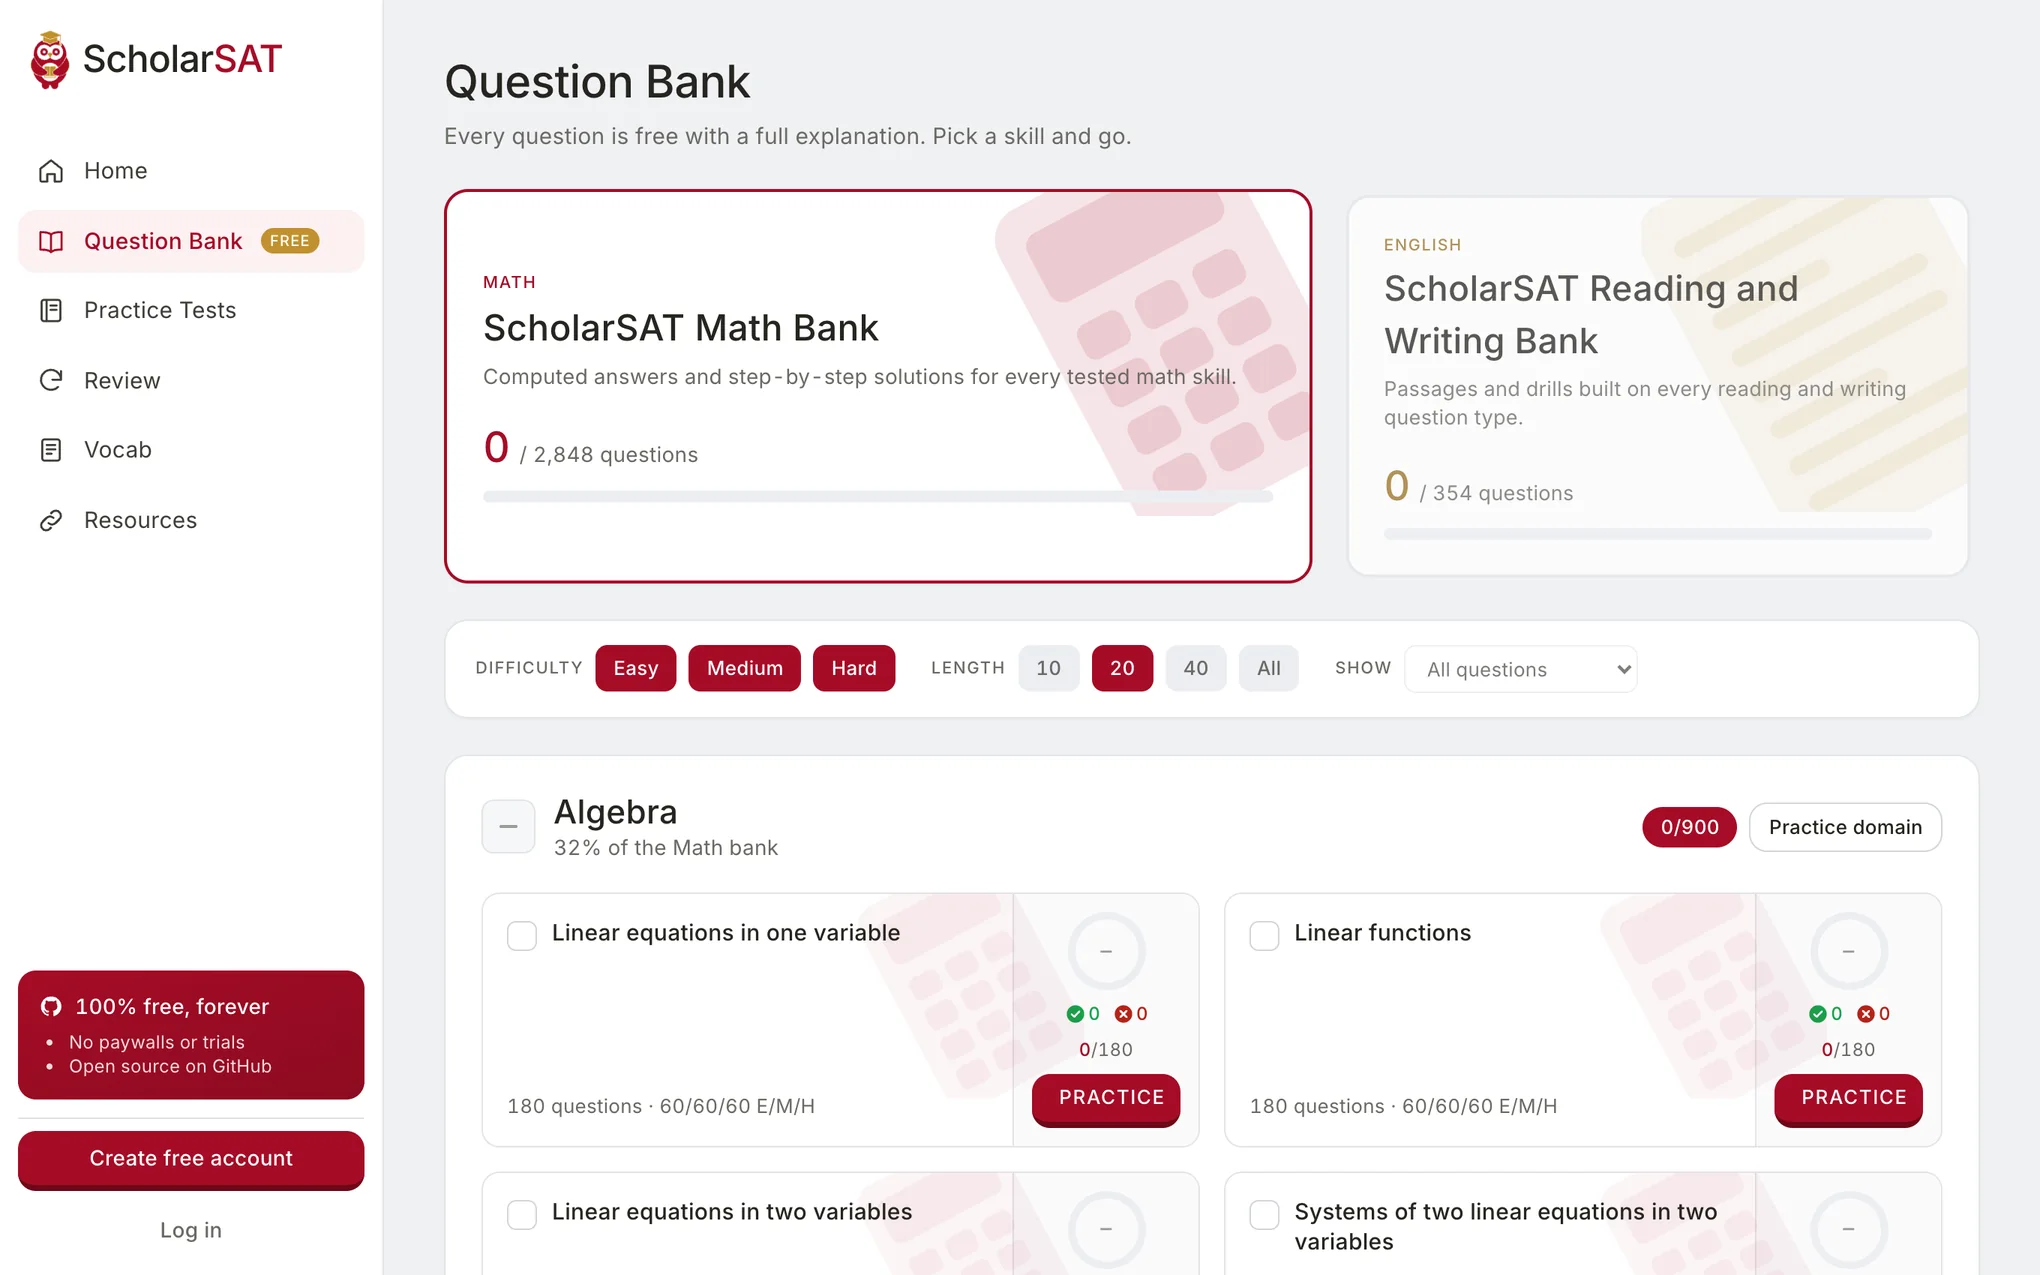
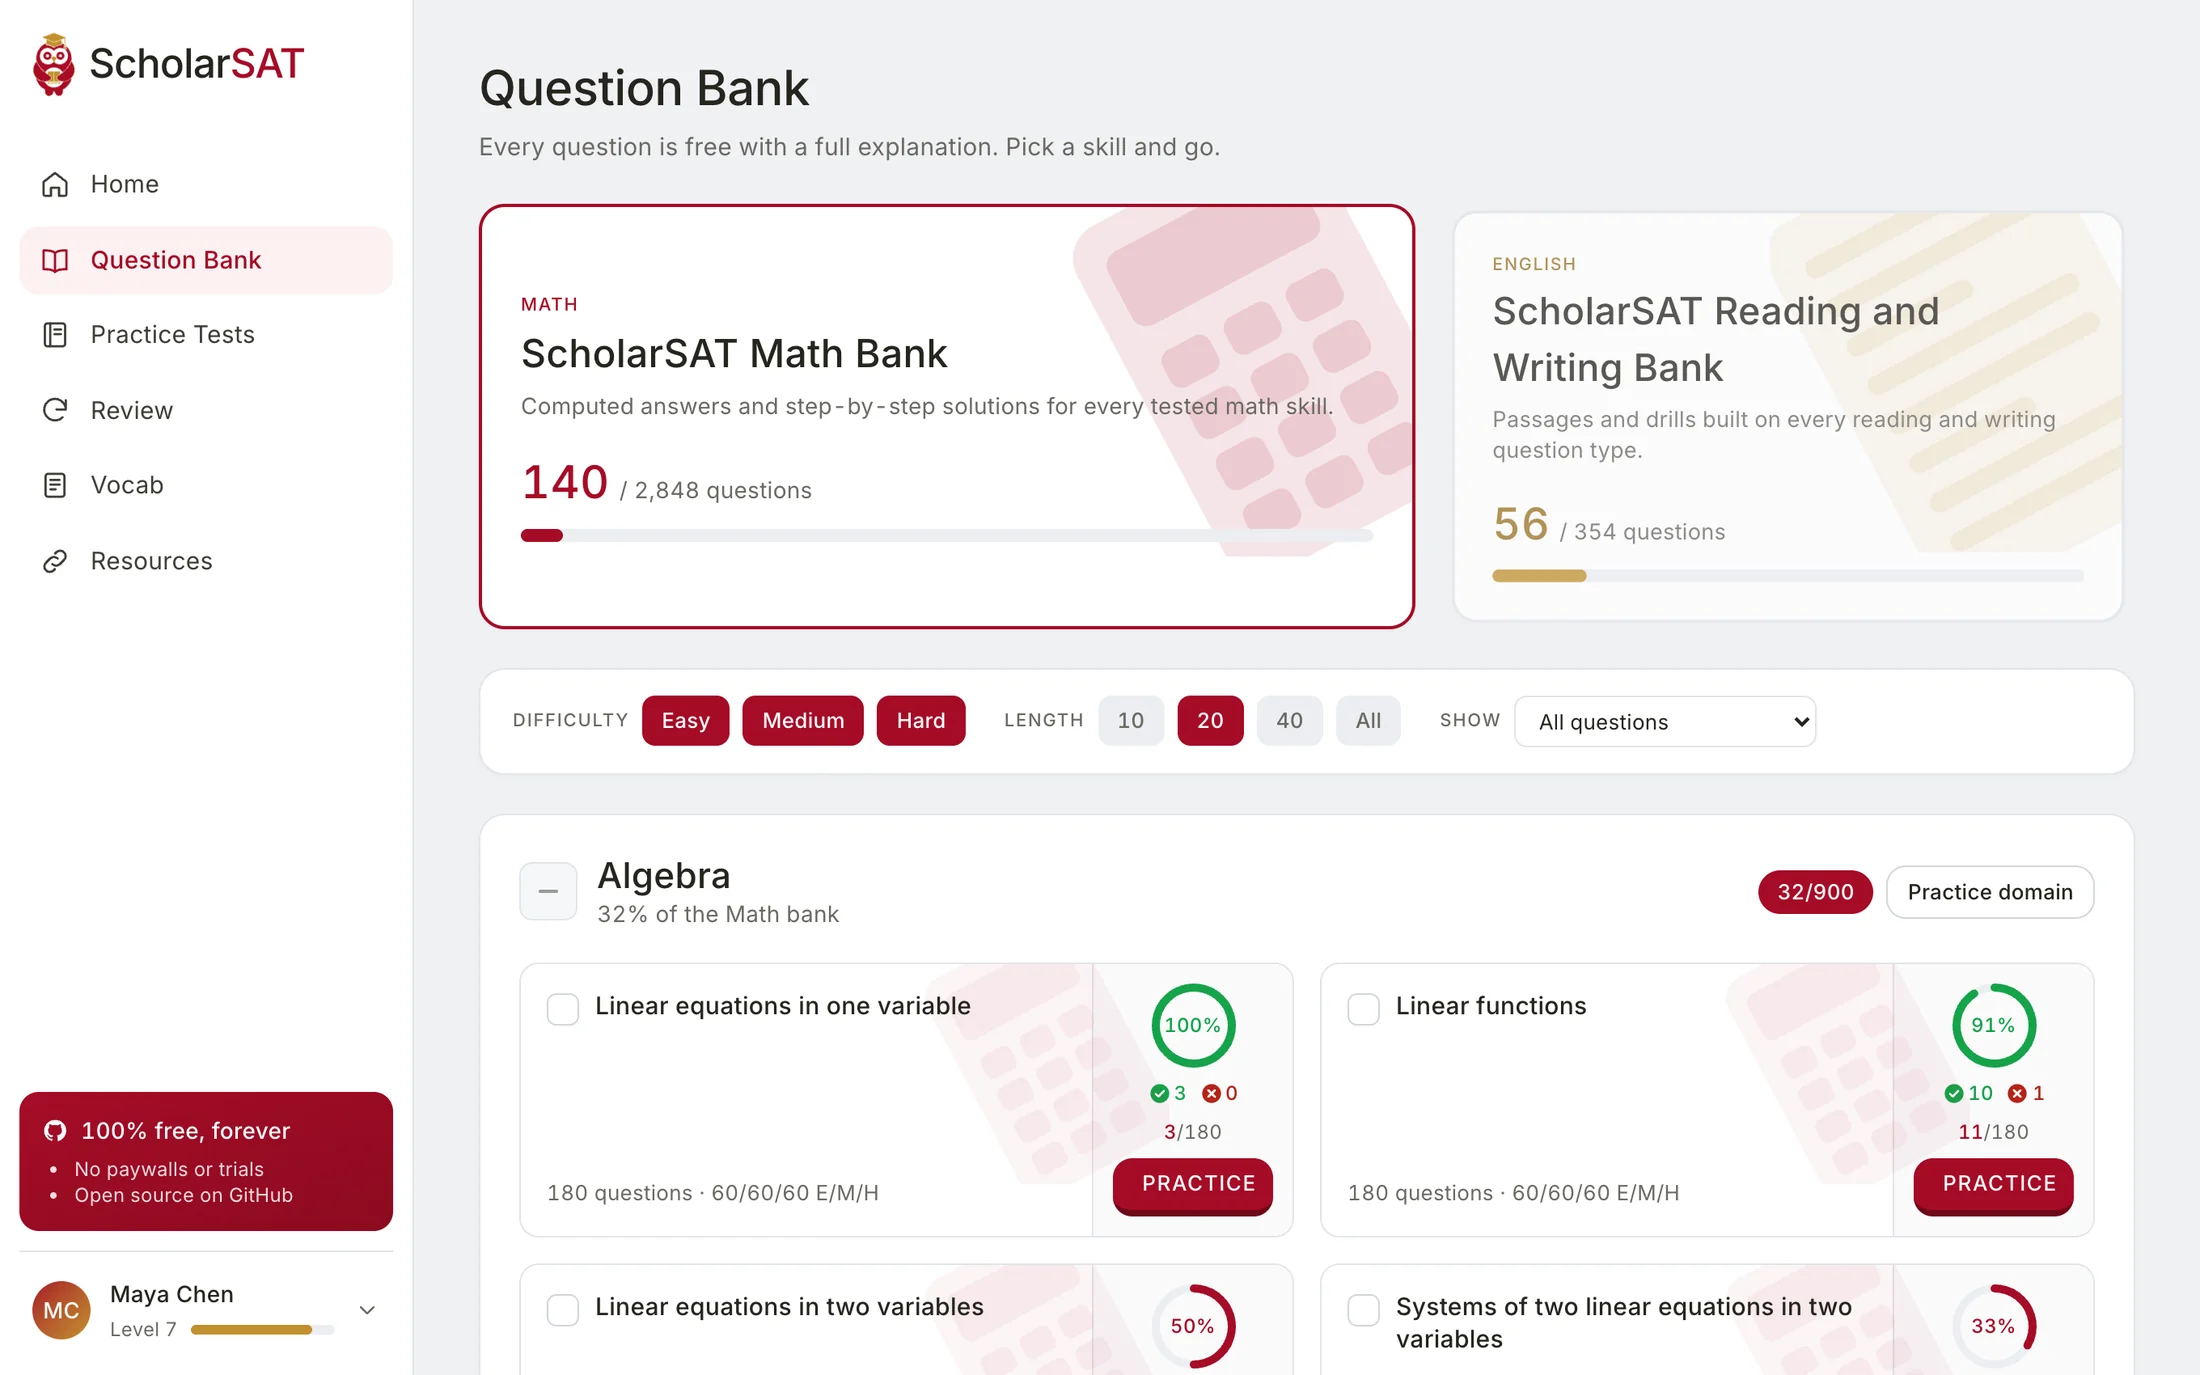
Landing page: populated product screens, dark stats band, more depth
- Hero showcase now uses real app screens (dashboard, question bank, review)
  captured at 2x with sample progress instead of empty-state shots.
- Bigger one-line headline, dark full-width stats band, layered card
  shadows, larger mini-screens in the tool tiles, colour-filled mock-test
  modules, darker intro copy.
- Predicted-score tile matches the dashboard screenshot (1270).

diff --git a/src/app/page.tsx b/src/app/page.tsx
@@ -79,7 +79,7 @@ function SectionHead({ tag, title, children, actions }: { tag: string; title: Re
       <div>
         <Tag>{tag}</Tag>
         <h2 className={`${H2} max-w-[20ch]`}>{title}</h2>
-        {children && <p className="mt-5 max-w-[56ch] text-[17px] leading-[1.55] text-muted">{children}</p>}
+        {children && <p className="mt-5 max-w-[56ch] text-[18px] leading-[1.55] text-ink-2">{children}</p>}
       </div>
       {actions && <div className="flex shrink-0 flex-wrap items-center gap-3">{actions}</div>}
     </Reveal>
@@ -89,8 +89,8 @@ function SectionHead({ tag, title, children, actions }: { tag: string; title: Re
 /** Bento tile: a product visual on a tinted stage, with a title and one line under it. */
 function Tile({ title, children, visual, className = "", i = 0 }: { title: string; children: ReactNode; visual: ReactNode; className?: string; i?: number }) {
   return (
-    <div style={idx(i)} className={`lp-stagger lp-lift flex flex-col overflow-hidden rounded-2xl border border-line bg-surface ${className}`}>
-      <div className="flex min-h-[240px] flex-1 items-center justify-center p-6 sm:p-8">{visual}</div>
+    <div style={idx(i)} className={`lp-stagger lp-lift lp-card flex flex-col overflow-hidden rounded-2xl border border-line bg-surface ${className}`}>
+      <div className="flex min-h-[260px] flex-1 items-center justify-center p-6 sm:p-10">{visual}</div>
       <div className="border-t border-line bg-white p-6">
         <h3 className="text-[18px] font-medium tracking-[-0.01em] text-ink">{title}</h3>
         <p className="mt-1.5 text-[15px] leading-relaxed text-muted">{children}</p>
@@ -116,19 +116,19 @@ export default async function Landing() {
   const primaryLabel = user ? "Open dashboard" : "Create free account";
 
   return (
-    <div className="bg-white text-[15px]">
+    <div className="lp-root bg-white text-[15px]">
       <LandingNav signedIn={Boolean(user)} repo={REPO} />
       <div aria-hidden="true" className="h-[60px]" />
 
       <main>
         {/* Hero */}
         <section className={`${WRAP} pt-8 sm:pt-10`}>
-          <div className="grid items-end gap-x-12 gap-y-8 lg:grid-cols-[minmax(0,1.2fr)_minmax(0,1fr)]">
-            <h1 className="lp-in text-[44px] leading-[1.02] font-medium tracking-[-0.04em] text-ink sm:text-[64px] lg:text-[68px]">
+          <div className="flex flex-col gap-8 xl:flex-row xl:items-end xl:justify-between">
+            <h1 className="lp-in text-[52px] leading-[0.98] font-medium tracking-[-0.045em] text-ink sm:text-[80px]">
               <span className="lp-line text-red">Free</span> SAT prep.
             </h1>
-            <div className="lp-in lg:pb-3" style={delay(150)}>
-              <div className="flex flex-wrap items-center gap-3 lg:justify-end">
+            <div className="lp-in xl:pb-3" style={delay(150)}>
+              <div className="flex flex-wrap items-center gap-3 xl:justify-end">
                 <LinkButton href={primaryHref} size="lg">{primaryLabel} <IArrowR className="h-4 w-4" /></LinkButton>
                 <LinkButton href="/practice" variant="secondary" size="lg">Practice without an account</LinkButton>
               </div>
@@ -140,7 +140,8 @@ export default async function Landing() {
         </section>
 
         {/* Numbers, counted from the bank */}
-        <section className={`${WRAP} py-16 sm:py-20`}>
+        <section className="mt-20 bg-ink text-white sm:mt-28">
+          <div className={`${WRAP} py-16 sm:py-24`}>
           <Reveal stagger>
           <dl className="grid grid-cols-2 gap-y-10 lg:grid-cols-4">
             {[
@@ -149,13 +150,14 @@ export default async function Landing() {
               [testQuestions, `questions in every mock test, timed at ${testLength}`],
               ["$0", "for all of it, with no trial and no paid plan"],
             ].map(([n, l], i) => (
-              <div key={l} style={idx(i)} className={`lp-stagger flex flex-col-reverse gap-3 px-5 sm:px-8 ${i % 2 ? "border-l border-line" : ""} ${i === 2 ? "lg:border-l lg:border-line" : ""} ${i === 0 ? "pl-0 sm:pl-0" : ""} ${i === 2 ? "pl-0 sm:pl-0 lg:pl-8" : ""}`}>
-                <dt className="max-w-[24ch] text-[14px] leading-snug text-muted">{l}</dt>
-                <dd className={`text-[52px] leading-none font-medium tracking-[-0.04em] tabular-nums sm:text-[72px] ${i === 3 ? "text-red" : "text-ink"}`}>{typeof n === "number" ? <CountUp to={n} /> : n}</dd>
+              <div key={l} style={idx(i)} className={`lp-stagger flex flex-col-reverse gap-3 px-5 sm:px-8 ${i % 2 ? "border-l border-white/15" : ""} ${i === 2 ? "lg:border-l lg:border-white/15" : ""} ${i === 0 ? "pl-0 sm:pl-0" : ""} ${i === 2 ? "pl-0 sm:pl-0 lg:pl-8" : ""}`}>
+                <dt className="max-w-[24ch] text-[15px] leading-snug text-white/65">{l}</dt>
+                <dd className={`text-[52px] leading-none font-medium tracking-[-0.04em] tabular-nums sm:text-[72px] ${i === 3 ? "text-gold" : "text-white"}`}>{typeof n === "number" ? <CountUp to={n} /> : n}</dd>
               </div>
             ))}
           </dl>
           </Reveal>
+          </div>
         </section>
 
         {/* Question bank */}
@@ -173,7 +175,7 @@ export default async function Landing() {
               {(["math", "rw"] as Section[]).map((sec, si) => {
                 const max = Math.max(...TAXONOMY[sec].map((d) => c.byDomain[d.domain] ?? 0), 1);
                 return (
-                  <div key={sec} style={idx(si)} className="lp-stagger lp-lift rounded-2xl border border-line bg-surface p-6 sm:p-7">
+                  <div key={sec} style={idx(si)} className="lp-stagger lp-lift lp-card rounded-2xl border border-line bg-surface p-6 sm:p-7">
                     <div className="flex items-baseline justify-between gap-4">
                       <h3 className="text-[18px] font-medium tracking-[-0.01em] text-ink">{SECTION_LABEL[sec]}</h3>
                       <p className="shrink-0 whitespace-nowrap text-[14px] text-muted tabular-nums">{c.bySection[sec].toLocaleString()} questions</p>
@@ -200,7 +202,7 @@ export default async function Landing() {
               })}
 
               <div style={idx(2)} className="lp-stagger grid gap-4">
-                <div className="lp-lift rounded-2xl border border-line bg-surface p-6 sm:p-7">
+                <div className="lp-lift lp-card rounded-2xl border border-line bg-surface p-6 sm:p-7">
                   <h3 className="text-[18px] font-medium tracking-[-0.01em] text-ink">Three difficulty levels</h3>
                   <div className="mt-6 flex h-28 items-end gap-3">
                     {(["E", "M", "H"] as Difficulty[]).map((d) => (
@@ -242,7 +244,7 @@ export default async function Landing() {
               <Reveal>
                 <Tag>Live question</Tag>
                 <h2 className={`${H2} max-w-[14ch]`}>Answer one <Hl>right now</Hl></h2>
-                <p className="mt-5 max-w-[46ch] text-[17px] leading-[1.55] text-muted">
+                <p className="mt-5 max-w-[46ch] text-[18px] leading-[1.55] text-ink-2">
                   These three come straight from the bank. Pick an answer and you get what every question gives you:
                 </p>
                 <ul className="mt-6 grid max-w-[46ch] gap-3 text-[16px] text-ink">
@@ -272,11 +274,11 @@ export default async function Landing() {
             <Reveal stagger className="mt-12 rounded-2xl border border-line bg-surface p-4 sm:p-6">
               <ol className="grid gap-2 md:flex">
                 {MODULES.map((m, i) => (
-                  <li key={i} style={{ flexGrow: m.minutes, ...idx(i) }} className={`lp-stagger rounded-xl border bg-white p-5 md:basis-0 ${m.section === "rw" ? "border-gold-100" : "border-red-100"}`}>
+                  <li key={i} style={{ flexGrow: m.minutes, ...idx(i) }} className={`lp-stagger lp-chip rounded-xl border p-5 md:basis-0 ${m.section === "rw" ? "border-gold-100 bg-gold-50" : "border-red-100 bg-red-50"}`}>
                     <div className={`h-1.5 w-10 rounded-full ${m.section === "rw" ? "bg-gold" : "bg-red"}`} />
                     <p className="mt-4 text-[13px] text-muted">{SECTION_LABEL[m.section]}</p>
                     <p className="text-[20px] font-medium tracking-[-0.01em] text-ink">Module {(i % 2) + 1}</p>
-                    <p className="mt-8 font-mono text-[28px] leading-none text-ink tabular-nums">{m.minutes}:00</p>
+                    <p className="mt-10 font-mono text-[40px] leading-none text-ink tabular-nums">{m.minutes}:00</p>
                     <p className="mt-2 text-[14px] text-muted tabular-nums">{m.n} questions{i % 2 ? ", adaptive" : ""}</p>
                   </li>
                 ))}
@@ -316,9 +318,9 @@ export default async function Landing() {
                 visual={
                   <ul className="grid w-full max-w-md grid-cols-[minmax(0,1fr)] gap-2">
                     {missed.map((s) => (
-                      <li key={s} className="flex items-center gap-3 rounded-xl border border-line bg-white px-4 py-3 shadow-card">
+                      <li key={s} className="flex items-center gap-3 rounded-xl border border-line bg-white px-5 py-4 lp-chip">
                         <IXCircle className="h-5 w-5 shrink-0 text-bad" />
-                        <span className="min-w-0 flex-1 truncate text-[14px] text-ink">{s}</span>
+                        <span className="min-w-0 flex-1 truncate text-[15px] text-ink">{s}</span>
                         <span className="shrink-0 rounded-lg bg-red-50 px-2.5 py-1 text-[13px] font-medium text-red">Retry</span>
                       </li>
                     ))}
@@ -332,11 +334,11 @@ export default async function Landing() {
                 title="Predicted score"
                 i={1}
                 visual={
-                  <div className="flex w-full max-w-xs items-center gap-6 rounded-2xl border border-line bg-white p-5 shadow-card">
-                    <Ring value={0.72} size={92} stroke={9} label="1380" />
+                  <div className="flex w-full max-w-sm items-center gap-7 rounded-2xl border border-line bg-white p-6 lp-chip">
+                    <Ring value={0.725} size={112} stroke={10} label="1270" />
                     <div className="min-w-0 flex-1">
                       <p className="text-[13px] text-muted">Example estimate</p>
-                      {[["Math", 0.76, "bg-red"], ["Reading and Writing", 0.68, "bg-gold"]].map(([l, v, cls]) => (
+                      {[["Math, 650", 0.81, "bg-red"], ["Reading and Writing, 620", 0.775, "bg-gold"]].map(([l, v, cls]) => (
                         <div key={l as string} className="mt-3">
                           <p className="truncate text-[13px] text-ink">{l}</p>
                           <div className="mt-1.5 h-1.5 overflow-hidden rounded-full bg-surface-2"><div className={`lp-bar h-full rounded-full ${cls}`} style={{ width: `${(v as number) * 100}%` }} /></div>
@@ -356,10 +358,10 @@ export default async function Landing() {
                 visual={
                   <div className="relative w-full max-w-sm">
                     <div className="absolute inset-x-4 -bottom-2 h-full rounded-2xl border border-line bg-white" aria-hidden="true" />
-                    <div className="relative rounded-2xl border border-line bg-white p-6 text-center shadow-card">
-                      <p className="text-[28px] font-medium tracking-[-0.02em] text-ink">{word.word}</p>
+                    <div className="relative rounded-2xl border border-line bg-white p-6 text-center lp-chip">
+                      <p className="text-[36px] font-medium tracking-[-0.03em] text-ink">{word.word}</p>
                       <p className="mt-0.5 text-[13px] italic text-muted">{word.pos}</p>
-                      <p className="mt-4 border-t border-line pt-4 text-[15px] text-ink-2">{word.def}</p>
+                      <p className="mt-5 border-t border-line pt-5 text-[16px] text-ink-2">{word.def}</p>
                     </div>
                   </div>
                 }
@@ -382,7 +384,7 @@ export default async function Landing() {
                         <span className="shrink-0 text-[13px] font-medium text-ink">Solve</span>
                       </div>
                     ))}
-                    <div className="mt-1 flex items-center gap-2 rounded-xl border border-line bg-white px-4 py-3 shadow-card">
+                    <div className="mt-1 flex items-center gap-2 rounded-xl border border-line bg-white px-4 py-3 lp-chip">
                       <span className="text-gold"><IFireSolid className="h-5 w-5" /></span>
                       <span className="mr-auto text-[14px] text-ink">Your streak</span>
                       {[1, 1, 1, 1, 1, 0, 0].map((on, i) => <span key={i} className={`h-2.5 w-2.5 rounded-full ${on ? "bg-gold" : "bg-surface-2"}`} />)}
@@ -454,7 +456,7 @@ export default async function Landing() {
               </div>
             </div>
             <div className="relative hidden min-h-[380px] lg:block" aria-hidden="true">
-              <Image src="/landing/tests.webp" alt="" width={2040} height={1275} sizes="900px" className="absolute left-0 top-14 w-[900px] max-w-none rounded-tl-xl border border-black/20 shadow-[0_-8px_60px_rgb(0_0_0/0.28)]" />
+              <Image src="/landing/dashboard.webp" alt="" width={2200} height={1375} sizes="900px" className="absolute left-0 top-14 w-[900px] max-w-none rounded-tl-xl border border-black/20 shadow-[0_-8px_60px_rgb(0_0_0/0.28)]" />
             </div>
           </Reveal>
         </section>

diff --git a/src/components/LandingShowcase.tsx b/src/components/LandingShowcase.tsx
@@ -2,12 +2,12 @@
 
 import Image from "next/image";
 import { useState } from "react";
-import { IBook, ICards, IExam } from "./icons";
+import { IBook, IHome, IRefresh } from "./icons";
 
 const TABS = [
-  { id: "bank", label: "Question bank", path: "practice", src: "/landing/bank.webp", alt: "The ScholarSAT question bank, with math skills listed by domain and a practice button on each", Icon: IBook },
-  { id: "tests", label: "Practice tests", path: "tests", src: "/landing/tests.webp", alt: "The practice tests page, showing a full-length mock exam of 2 hours 14 minutes and 98 questions", Icon: IExam },
-  { id: "vocab", label: "Vocabulary", path: "vocab", src: "/landing/vocab.webp", alt: "A vocabulary flashcard with buttons for still learning and I know it", Icon: ICards },
+  { id: "dashboard", label: "Dashboard", path: "dashboard", src: "/landing/dashboard.webp", alt: "A student's dashboard: a 4-day streak, a daily goal at 14 of 18 questions, a predicted score of 1270 and accuracy by skill", Icon: IHome },
+  { id: "bank", label: "Question bank", path: "practice", src: "/landing/bank.webp", alt: "The question bank, with an accuracy ring and a practice button on every math skill", Icon: IBook },
+  { id: "review", label: "Mistake review", path: "review", src: "/landing/review.webp", alt: "The review page listing 45 missed questions by skill and difficulty, each ready to retry", Icon: IRefresh },
 ] as const;
 
 /** Tabbed screenshots of the real app, framed like a browser window. */
@@ -55,8 +55,8 @@ export function LandingShowcase() {
                 src={t.src}
                 alt={i === active ? t.alt : ""}
                 aria-hidden={i !== active}
-                width={2040}
-                height={1275}
+                width={2200}
+                height={1375}
                 priority={i === 0}
                 sizes="(min-width: 1200px) 1120px, 100vw"
                 className={`absolute inset-x-0 top-0 h-auto w-full transition-opacity duration-300 ${i === active ? "opacity-100" : "opacity-0"}`}

diff --git a/src/components/landing.css b/src/components/landing.css
@@ -80,3 +80,15 @@
     transition: none !important;
   }
 }
+
+/* Page-wide type and depth */
+.lp-root { letter-spacing: 0; }
+.lp-card {
+  box-shadow: 0 1px 2px rgb(38 37 30 / 0.05), 0 14px 32px -18px rgb(38 37 30 / 0.2);
+}
+.lp-chip {
+  box-shadow: 0 1px 2px rgb(38 37 30 / 0.06), 0 8px 18px -10px rgb(38 37 30 / 0.18);
+}
+@media (hover: hover) and (pointer: fine) {
+  .lp-card.lp-lift:hover { box-shadow: 0 1px 2px rgb(38 37 30 / 0.06), 0 22px 44px -18px rgb(38 37 30 / 0.28); }
+}
